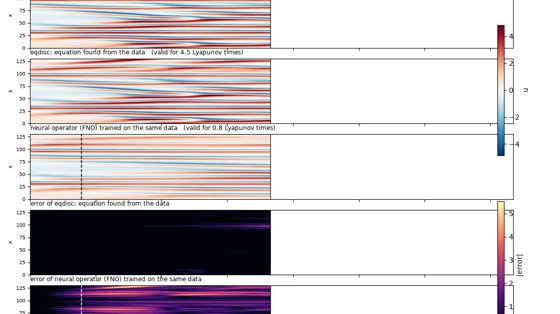
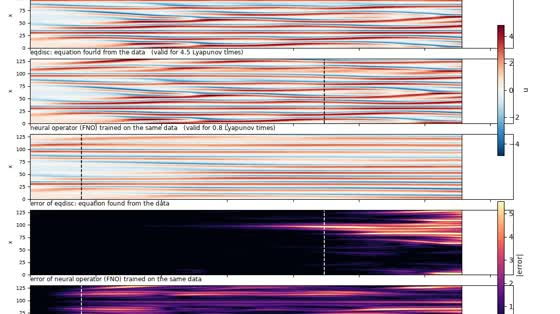
Demo polish: honest orbit card, plain tile label, later KS thumbnail

Changed region(s): [[0.4554, 0.0, 0.85, 1.0]]

diff --git a/demo/app.py b/demo/app.py
@@ -164,7 +164,7 @@ def page_lageos():
                 {"label": "Agent: 30-day error", "value": km(pe_ag["30d"]), "delta": f"1 day: {km(pe_ag['1d'])}",
                  "help": "Position error after 30 days of forecasting from the last training state."},
                 {"label": "Neural net (MLP)", "value": km(n["N"]), "delta": "same data"},
-                {"label": "Kepler only", "value": km(n["K"]), "delta": "two-body gravity"},
+                {"label": "Round-Earth gravity", "value": km(n["K"]), "delta": "textbook ellipse (Kepler)"},
                 {"label": "Agent cost", "value": f"${ag.get('cost_usd', 0):.2f}",
                  "delta": f"{ag.get('n_tool_calls', '?')} tool calls"},
             ])
@@ -484,9 +484,14 @@ def page_home():
     info, _ = load_case("orbit")
     if info and (info["results"]["position_error_km"].get("data-only agent")):
         pe = info["results"]["position_error_km"]
-        cards.append(("🌍 Orbit with a big bulge (synthetic)", f"{km(pe['data-only agent']['24h'])} vs "
-                      f"{km(pe['neural step model (MLP)']['24h'])}", "1-day forecast error: data-only agent vs neural net",
-                      "orbit", PAGES[6]))
+        ag_, nn_ = pe['data-only agent']['24h'], pe['neural step model (MLP)']['24h']
+        if ag_ < nn_:
+            cards.append(("🌍 Orbit with a big bulge (synthetic)", f"{km(ag_)} vs {km(nn_)}",
+                          "1-day forecast error: data-only agent vs neural net", "orbit", PAGES[6]))
+        else:
+            cards.append(("🌍 Orbit with a big bulge (synthetic)", "✗ not recovered",
+                          f"an honest failure: after 1 day the agent is {km(ag_)} off, the neural net {km(nn_)}",
+                          "orbit", PAGES[6]))
     info, _ = load_case("ks")
     if info:
         vt = info["results"]["valid_time_lyapunov"]

diff --git a/demo/build_showcase.py b/demo/build_showcase.py
@@ -215,7 +215,7 @@ def build_ks():
     _copy(src / "ks_spacetime.mp4", d / "video.mp4") or _copy(src / "ks_oos.mp4", d / "video.mp4")
     _copy(src / "ks_spacetime.png", d / "spacetime.png")
     _copy(src / "discover/report.html", d / "report.html")
-    _thumb(d / "video.mp4", d / "thumb.jpg", at=5.0)
+    _thumb(d / "video.mp4", d / "thumb.jpg", at=9.0)
     z = np.load(src / "rollouts.npz")
     labels = [str(s) for s in z["labels"]]
     lam = float(res["lyapunov_exponent"])
